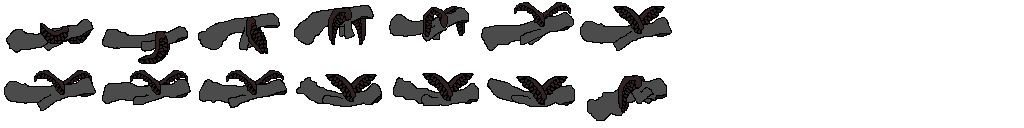
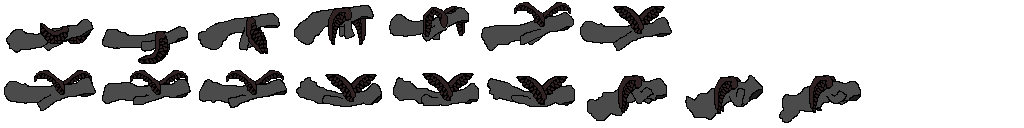
changed menu screen, added stun animation

diff --git a/jni/src/scenes/MainMenu.cpp b/jni/src/scenes/MainMenu.cpp
@@ -1,5 +1,6 @@
 #include "MainMenu.hpp"
 
+#include "../graphics/draw.hpp" // for draw::rectangle
 #include "../global.hpp"
 #include "../warn.hpp"
 #include "../assert.hpp"
@@ -34,7 +35,7 @@ int MainMenu::startup()
     fRect top_third =
       fRect(0.0f, 0.0f, WINDOW_DEFAULT_W, WINDOW_DEFAULT_H / 3.0f);
     // set the area of texture to draw
-    title_src = fRect(0, 0, 320, 150);
+    title_src = fRect(0, 0, 512, 128);
     title_dest = global::viewport;
     // maintain aspect ratio
     title_dest.setRatio(title_src.getRatio());
@@ -50,12 +51,12 @@ int MainMenu::startup()
     fRect low_ninths = mid_ninths + V2f(0, mid_ninths.h);
     // the top and bottom buttons are smaller than the middle one
     top_ninths.stretch_centered(0.7);
-    mid_ninths.stretch_centered(0.8);
+    mid_ninths.stretch_centered(1.2);
     low_ninths.stretch_centered(0.7);
     // set the area of texture to draw (on top of eachother)
-    fRect play_src(0, title_src.h, 160, 70);
+    fRect play_src(0, title_src.h, 256, 128);
     fRect exit_src = play_src + V2f(0, play_src.h);
-    fRect options_src(0, exit_src.y + exit_src.h, 256, 70);
+    fRect options_src = exit_src + V2f(0, exit_src.h);
     // add the buttons to the scene
     buttons.push_back(new Button("play", *texture, top_ninths, play_src));
     buttons.push_back(new Button("options", *texture, mid_ninths, options_src));
@@ -103,6 +104,9 @@ int MainMenu::update(Scene** next)
 
 void MainMenu::draw()
 {
+  // Draw the background colour
+  draw::rectangle(global::viewport, draw::Colour(242, 68, 5));
+
   // draw title
   texture->draw(&title_src, &title_dest);
 

diff --git a/jni/src/scenes/Button.cpp b/jni/src/scenes/Button.cpp
@@ -11,7 +11,8 @@ texture(init_texture),
 destination(init_destination),
 source_off(init_source),
 source_on(init_source + V2u(init_source.w,0)),
-pressed(false)
+pressed(false),
+hovered(false)
 {
     correctAspect(init_source, init_destination);
 }
@@ -42,7 +43,7 @@ Button::~Button()
 
 void Button::draw()
 {
-    if(pressed)
+    if(pressed || hovered)
         texture.draw(&source_on, &destination);
     else
         texture.draw(&source_off, &destination);
@@ -59,7 +60,8 @@ bool Button::press(V2f position, bool clicking)
 {
     // switch off button if not touching, otherwise turn or or off based on
     // position on touch.
-    return (pressed = (clicking && contains(position)));
+    hovered = contains(position);
+    return (pressed = (clicking && hovered));
 }
 
 str_id Button::getTag() const

diff --git a/jni/src/graphics/draw.cpp b/jni/src/graphics/draw.cpp
@@ -5,6 +5,28 @@
 
 #include <iostream>
 
+void draw::rectangle(fRect rect, Colour c)
+{
+  // Specify coordinates to draw
+  GLfloat points[8] = { rect.x, rect.y,
+                      rect.x, rect.y+rect.h,
+                      rect.x+rect.w, rect.y,
+                      rect.x+rect.w, rect.y+rect.h };
+
+  // Start up
+  glEnableClientState(GL_VERTEX_ARRAY);
+  glColor4f(c.r, c.g, c.b, c.a);
+
+  // Draw points
+  glVertexPointer(2, GL_FLOAT, 0, points);
+  glDrawArrays(GL_TRIANGLE_STRIP, 0, 4);
+
+  // Shut down
+  glColor4f(1, 1, 1, 1);
+  glDisableClientState(GL_VERTEX_ARRAY);
+  glLoadIdentity();
+}
+
 void draw::line(V2f start, V2f end, Colour c, float thickness)
 {
     // Specify coordinates to draw

diff --git a/jni/src/resources/AudioManager.cpp b/jni/src/resources/AudioManager.cpp
@@ -119,6 +119,9 @@ int AudioManager::load_music(const char* source_file)
 
   /// NB - file is NOT closed as music data must be streamed
 
+  /// NB (bis) - the RWops structure 'music_file' will be freed automatically
+  /// when 'music' is closed.
+
 
   // Success !
   return EXIT_SUCCESS;
@@ -149,7 +152,9 @@ void AudioManager::unload_music()
   // Close music stream
   if(music_file)
   {
-    //SDL_RWclose(music_file);
+    if(!music)
+      // this is closed automatically by Mix_FreeMusic
+      SDL_RWclose(music_file);
     music_file = NULL;
   }
 

diff --git a/jni/src/scenes/SceneState.cpp b/jni/src/scenes/SceneState.cpp
@@ -43,13 +43,14 @@ SceneState::Input* SceneState::getInput()
     return &input;
 }
 
-void SceneState::setCursor(V2u new_last_touch, bool new_clicking)
+void SceneState::setCursor(V2u new_cursor_position, bool new_clicking)
 {
     // save the previous state
     input.clicking_previous = input.clicking;
     // set to the new state
+    input.last_hover = new_cursor_position;
     if((input.clicking = new_clicking))
-        input.last_touch = new_last_touch;
+        input.last_touch = new_cursor_position;
 }
 
 str_id SceneState::releasedOnButton()

diff --git a/jni/src/scenes/SceneState.hpp b/jni/src/scenes/SceneState.hpp
@@ -13,7 +13,7 @@ class SceneState
     {
         public:
         // attributes
-        V2u last_touch;
+        V2u last_touch, last_hover;
         bool clicking, clicking_previous;
         Button* last_button;
         // constructor
@@ -48,7 +48,7 @@ class SceneState
     virtual void draw();
     // Accessors
     Input* getInput();
-    void setCursor(V2u new_last_touch, bool new_clicking);
+    void setCursor(V2u new_cursor_position, bool new_clicking);
     str_id releasedOnButton();
     bool newClick() const;
 };

diff --git a/jni/src/graphics/draw.hpp b/jni/src/graphics/draw.hpp
@@ -1,6 +1,7 @@
 #ifndef GRAPHICS_HPP_INCLUDED
 #define GRAPHICS_HPP_INCLUDED
 
+#include "../math/Rect.hpp"
 #include "../math/V2.hpp"
 
 #define CIRCLE_N_SEGMENTS 12
@@ -23,6 +24,7 @@ namespace draw
     };
 
     /// FUNCTIONS
+    void rectangle(fRect rect, Colour c = Colour());
     void line(V2f start, V2f end, Colour c = Colour(), float thickness = 1.0f);
     void line_loop(V2f points[], unsigned int n_pts, Colour c = Colour(),
                                                   float thickness = 1.0f);

diff --git a/jni/src/BlackDogApplication.cpp b/jni/src/BlackDogApplication.cpp
@@ -37,7 +37,7 @@ int BlackDogApplication::loadResources()
         iRect(0, 65, 96, 64), 3, "wraith_glide") == EXIT_SUCCESS,
         "Creating 'wraith_glide' animation");
   ASSERT(GraphicsManager::getInstance()->create_animation("sprites",
-      iRect(576, 65, 96, 64), 1, "wraith_stun") == EXIT_SUCCESS,
+      iRect(576, 65, 96, 64), 3, "wraith_stun") == EXIT_SUCCESS,
       "Creating 'wraith_stun' animation");
 
   /// 3. Load and play the music track

diff --git a/jni/src/scenes/Scene.cpp b/jni/src/scenes/Scene.cpp
@@ -35,7 +35,7 @@ int Scene::update(Scene** next)
 
     // Update buttons based on touch position
     for(ButtonIter i = buttons.begin(); i != buttons.end(); i++)
-        if((*i)->press(state->input.last_touch, state->input.clicking))
+        if((*i)->press(state->input.last_hover, state->input.clicking))
         {
             // Save the first button we're touching and break
             state->input.last_button = (*i);

diff --git a/jni/src/gameplay/things/AngelThing.hpp b/jni/src/gameplay/things/AngelThing.hpp
@@ -39,8 +39,8 @@ private:
   static const int INIT_FEATHERS = 8;
   static const int FEATHER_INTERVAL = 45;
   static const int STUN_DURATION = 20;
-  static const int SPRITE_W = 64;
-  static const int SPRITE_H = 64;
+  static const int SPRITE_W = 32;
+  static const int SPRITE_H = 24;
   static const int HITBOX_W = 8;
   static const int HITBOX_H = 16;
   static const int DEATH_THRESHOLD = 16;

diff --git a/jni/src/Application.cpp b/jni/src/Application.cpp
@@ -152,7 +152,7 @@ int Application::startSDL()
 
 int Application::startGL()
 {
-    glClearColor(0, 0, 0, 255);     // Black background by default
+    glClearColor(0, 0, 0, 1);     // Black background by default
     glEnable(GL_TEXTURE_2D);
     glEnable(GL_BLEND);
     glHint(GL_LINE_SMOOTH_HINT, GL_NICEST);

diff --git a/jni/src/scenes/BlackDogState.cpp b/jni/src/scenes/BlackDogState.cpp
@@ -36,6 +36,9 @@ int BlackDogState::update()
 
 void BlackDogState::draw()
 {
+  // Draw the background colour
+  draw::rectangle(global::viewport, draw::Colour(36, 6, 15));
+
   // Draw the background parallax tunnel
   parallax.draw();
 
